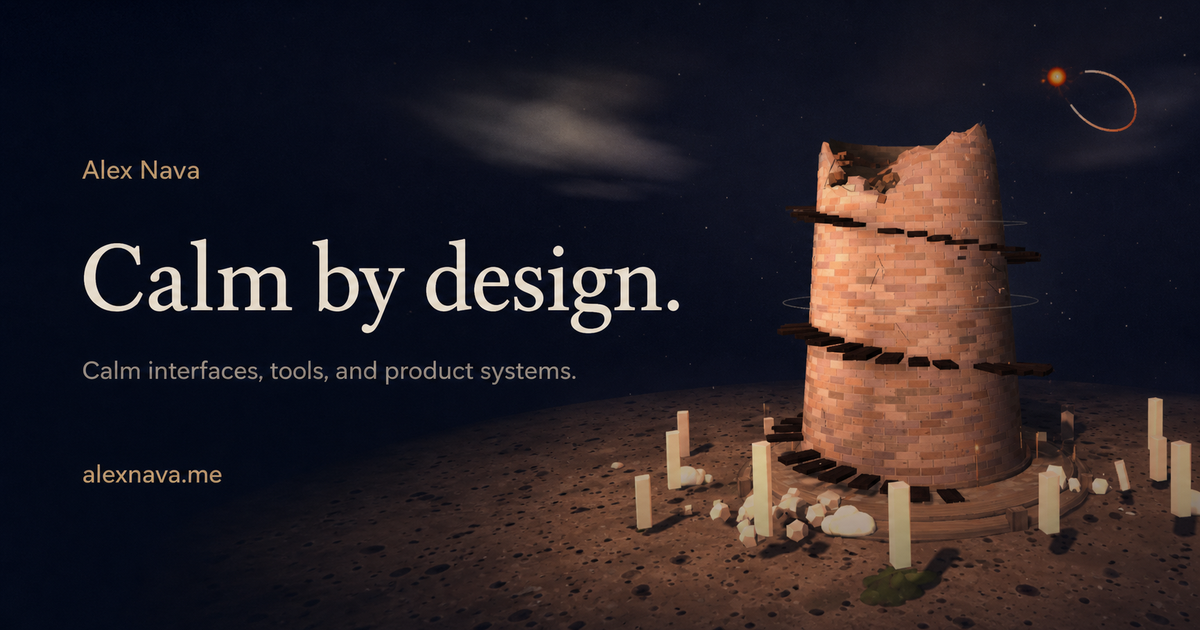
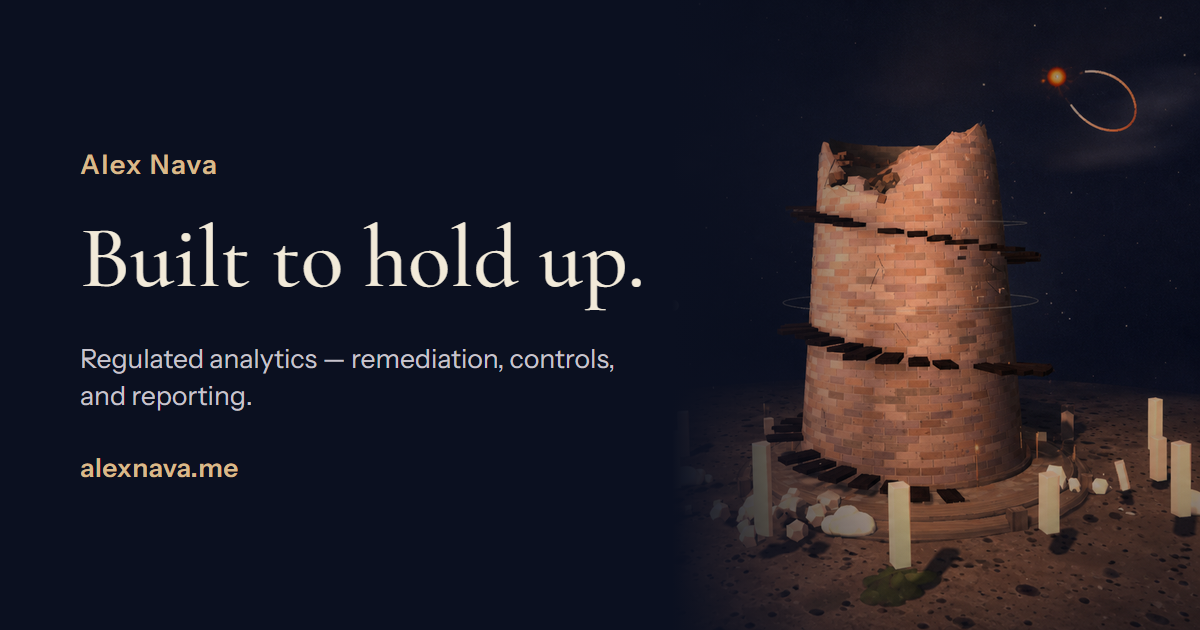
chore: retire the calm-by-design tagline
Replace "Calm by design." with "Built to hold up." across the hero,
loading-ritual motto, index.md, and manifest; regenerate og.png with the
new copy (same tower art, 465 kB vs 899 kB); move every CI smoke/audit
sentinel and test assertion to the new string in the same commit so
deploy gates stay consistent; refresh JSON-LD/index.md dateModified.

diff --git a/index.html b/index.html
@@ -47,7 +47,7 @@
         "headline": "Alex Nava — Regulated analytics",
         "description": "Regulated analytics, remediation, controls, and reporting.",
         "url": "https://alexnava.me/",
-        "dateModified": "2026-07-24"
+        "dateModified": "2026-08-08"
       }
     </script>
     <link rel="stylesheet" href="/styles.css?v=648" />
@@ -115,7 +115,7 @@
 
         <div class="loading-ritual__identity">
           <p class="loading-ritual__name">alex nava</p>
-          <p class="loading-ritual__motto">Calm by design.</p>
+          <p class="loading-ritual__motto">Built to hold up.</p>
         </div>
       </div>
     </div>
@@ -148,8 +148,8 @@
         <div class="hero-minimal" id="hero-minimal">
           <p class="hero-kicker">Regulated analytics</p>
           <h1>
-            <span class="hero-word">Calm by</span>
-            <span class="hero-word hero-word--accent">design.</span>
+            <span class="hero-word">Built to</span>
+            <span class="hero-word hero-word--accent">hold up.</span>
           </h1>
           <p class="hero-intro">Remediation, controls, and reporting—made clear.</p>
         </div>

diff --git a/styles.css b/styles.css
@@ -58,11 +58,11 @@
      competing with the hero word. Warm off-white — reads as legible white
      against the blue-black scene without clashing with the warm scene. */
   --text-muted-accent: #c5c9c2;
-  /* Prefix companion to the anchor. Used for "Calm by" so it reads as
-     legible white against the twilight scene while still letting "design."
+  /* Prefix companion to the anchor. Used for "Built to" so it reads as
+     legible white against the twilight scene while still letting "hold up."
      be the clear focal word. One notch brighter than --text-muted-accent
      so it holds hero-level presence. */
-  --calm-prefix: #ebe4d4;
+  --hero-prefix: #ebe4d4;
   --text: #f7f1ea;
   --muted: #d0c4ba;
   --text-primary: var(--text);
@@ -587,7 +587,7 @@ main:focus {
      altering the visual line spacing, so the full glyph gets its
      background painted. */
   padding-bottom: 0.12em;
-  color: var(--calm-prefix);
+  color: var(--hero-prefix);
 }
 
 .hero h1 .hero-word--accent {

diff --git a/OPERATIONS.md b/OPERATIONS.md
@@ -37,7 +37,7 @@ A production run fails when credentials are absent or invalid. Fork pull request
 
 ## Deploy and smoke checks
 
-Production runs only from `main`. Before upload, the workflow captures Cloudflare's successful canonical production deployment as the rollback target. It publishes `dist/` to Pages project `alexnava-me`, then runs `.github/scripts/smoke-pages.sh` against both the new immutable deployment URL and `https://alexnava.me/`. Both responses must return `200` without redirecting to another host and contain `Calm by design.`; their hashed app/scene/CSS references must match, and the apex's final response must send CSP, HSTS, and `X-Content-Type-Options: nosniff`. Apex asset-hash parity allows about three minutes for custom-domain promotion to catch the new production deployment before the release is failed and rolled back. The same script requires a real 404 response with the expected page marker and verifies that `www` returns `301` to the apex. If any post-upload check fails, the workflow calls Cloudflare's official Pages rollback endpoint for the captured deployment, reruns the identical script against its immutable URL, and remains failed even when recovery succeeds. Preview builds run without Cloudflare credentials and upload only `dist/`; a separate environment-gated job downloads that artifact and uses an independently installed, exact Wrangler version without checking out or installing pull-request code. It sanitizes the branch alias to lowercase ASCII letters, digits, and hyphens, prefixes it with `preview-` so it can never publish `main`, requires an exact project preview host and `200` response, then updates one bot-authored pull-request comment.
+Production runs only from `main`. Before upload, the workflow captures Cloudflare's successful canonical production deployment as the rollback target. It publishes `dist/` to Pages project `alexnava-me`, then runs `.github/scripts/smoke-pages.sh` against both the new immutable deployment URL and `https://alexnava.me/`. Both responses must return `200` without redirecting to another host and contain `Built to hold up.`; their hashed app/scene/CSS references must match, and the apex's final response must send CSP, HSTS, and `X-Content-Type-Options: nosniff`. Apex asset-hash parity allows about three minutes for custom-domain promotion to catch the new production deployment before the release is failed and rolled back. The same script requires a real 404 response with the expected page marker and verifies that `www` returns `301` to the apex. If any post-upload check fails, the workflow calls Cloudflare's official Pages rollback endpoint for the captured deployment, reruns the identical script against its immutable URL, and remains failed even when recovery succeeds. Preview builds run without Cloudflare credentials and upload only `dist/`; a separate environment-gated job downloads that artifact and uses an independently installed, exact Wrangler version without checking out or installing pull-request code. It sanitizes the branch alias to lowercase ASCII letters, digits, and hyphens, prefixes it with `preview-` so it can never publish `main`, requires an exact project preview host and `200` response, then updates one bot-authored pull-request comment.
 
 For an approved preview deploy:
 

diff --git a/STYLE.md b/STYLE.md
@@ -4,7 +4,7 @@ Design intent and aesthetic rules for alexnava.me. Read this before making visua
 
 ## Core ethos
 
-**Calm by design.** Quiet on load. Clear on click. Deep on scroll.
+**Built to hold up.** Quiet on load. Clear on click. Deep on scroll.
 
 The page should feel intentional and still. It can be atmospheric, but it should not read as generic dark UI or visual noise.
 

diff --git a/index.md b/index.md
@@ -2,12 +2,12 @@
 title: Alex Nava — Regulated analytics
 description: Regulated analytics, remediation, controls, and reporting.
 url: https://alexnava.me/
-dateModified: 2026-07-24
+dateModified: 2026-08-08
 ---
 
 # Alex Nava — Regulated analytics
 
-Calm by design.
+Built to hold up.
 
 Remediation, controls, and reporting—made clear.
 
